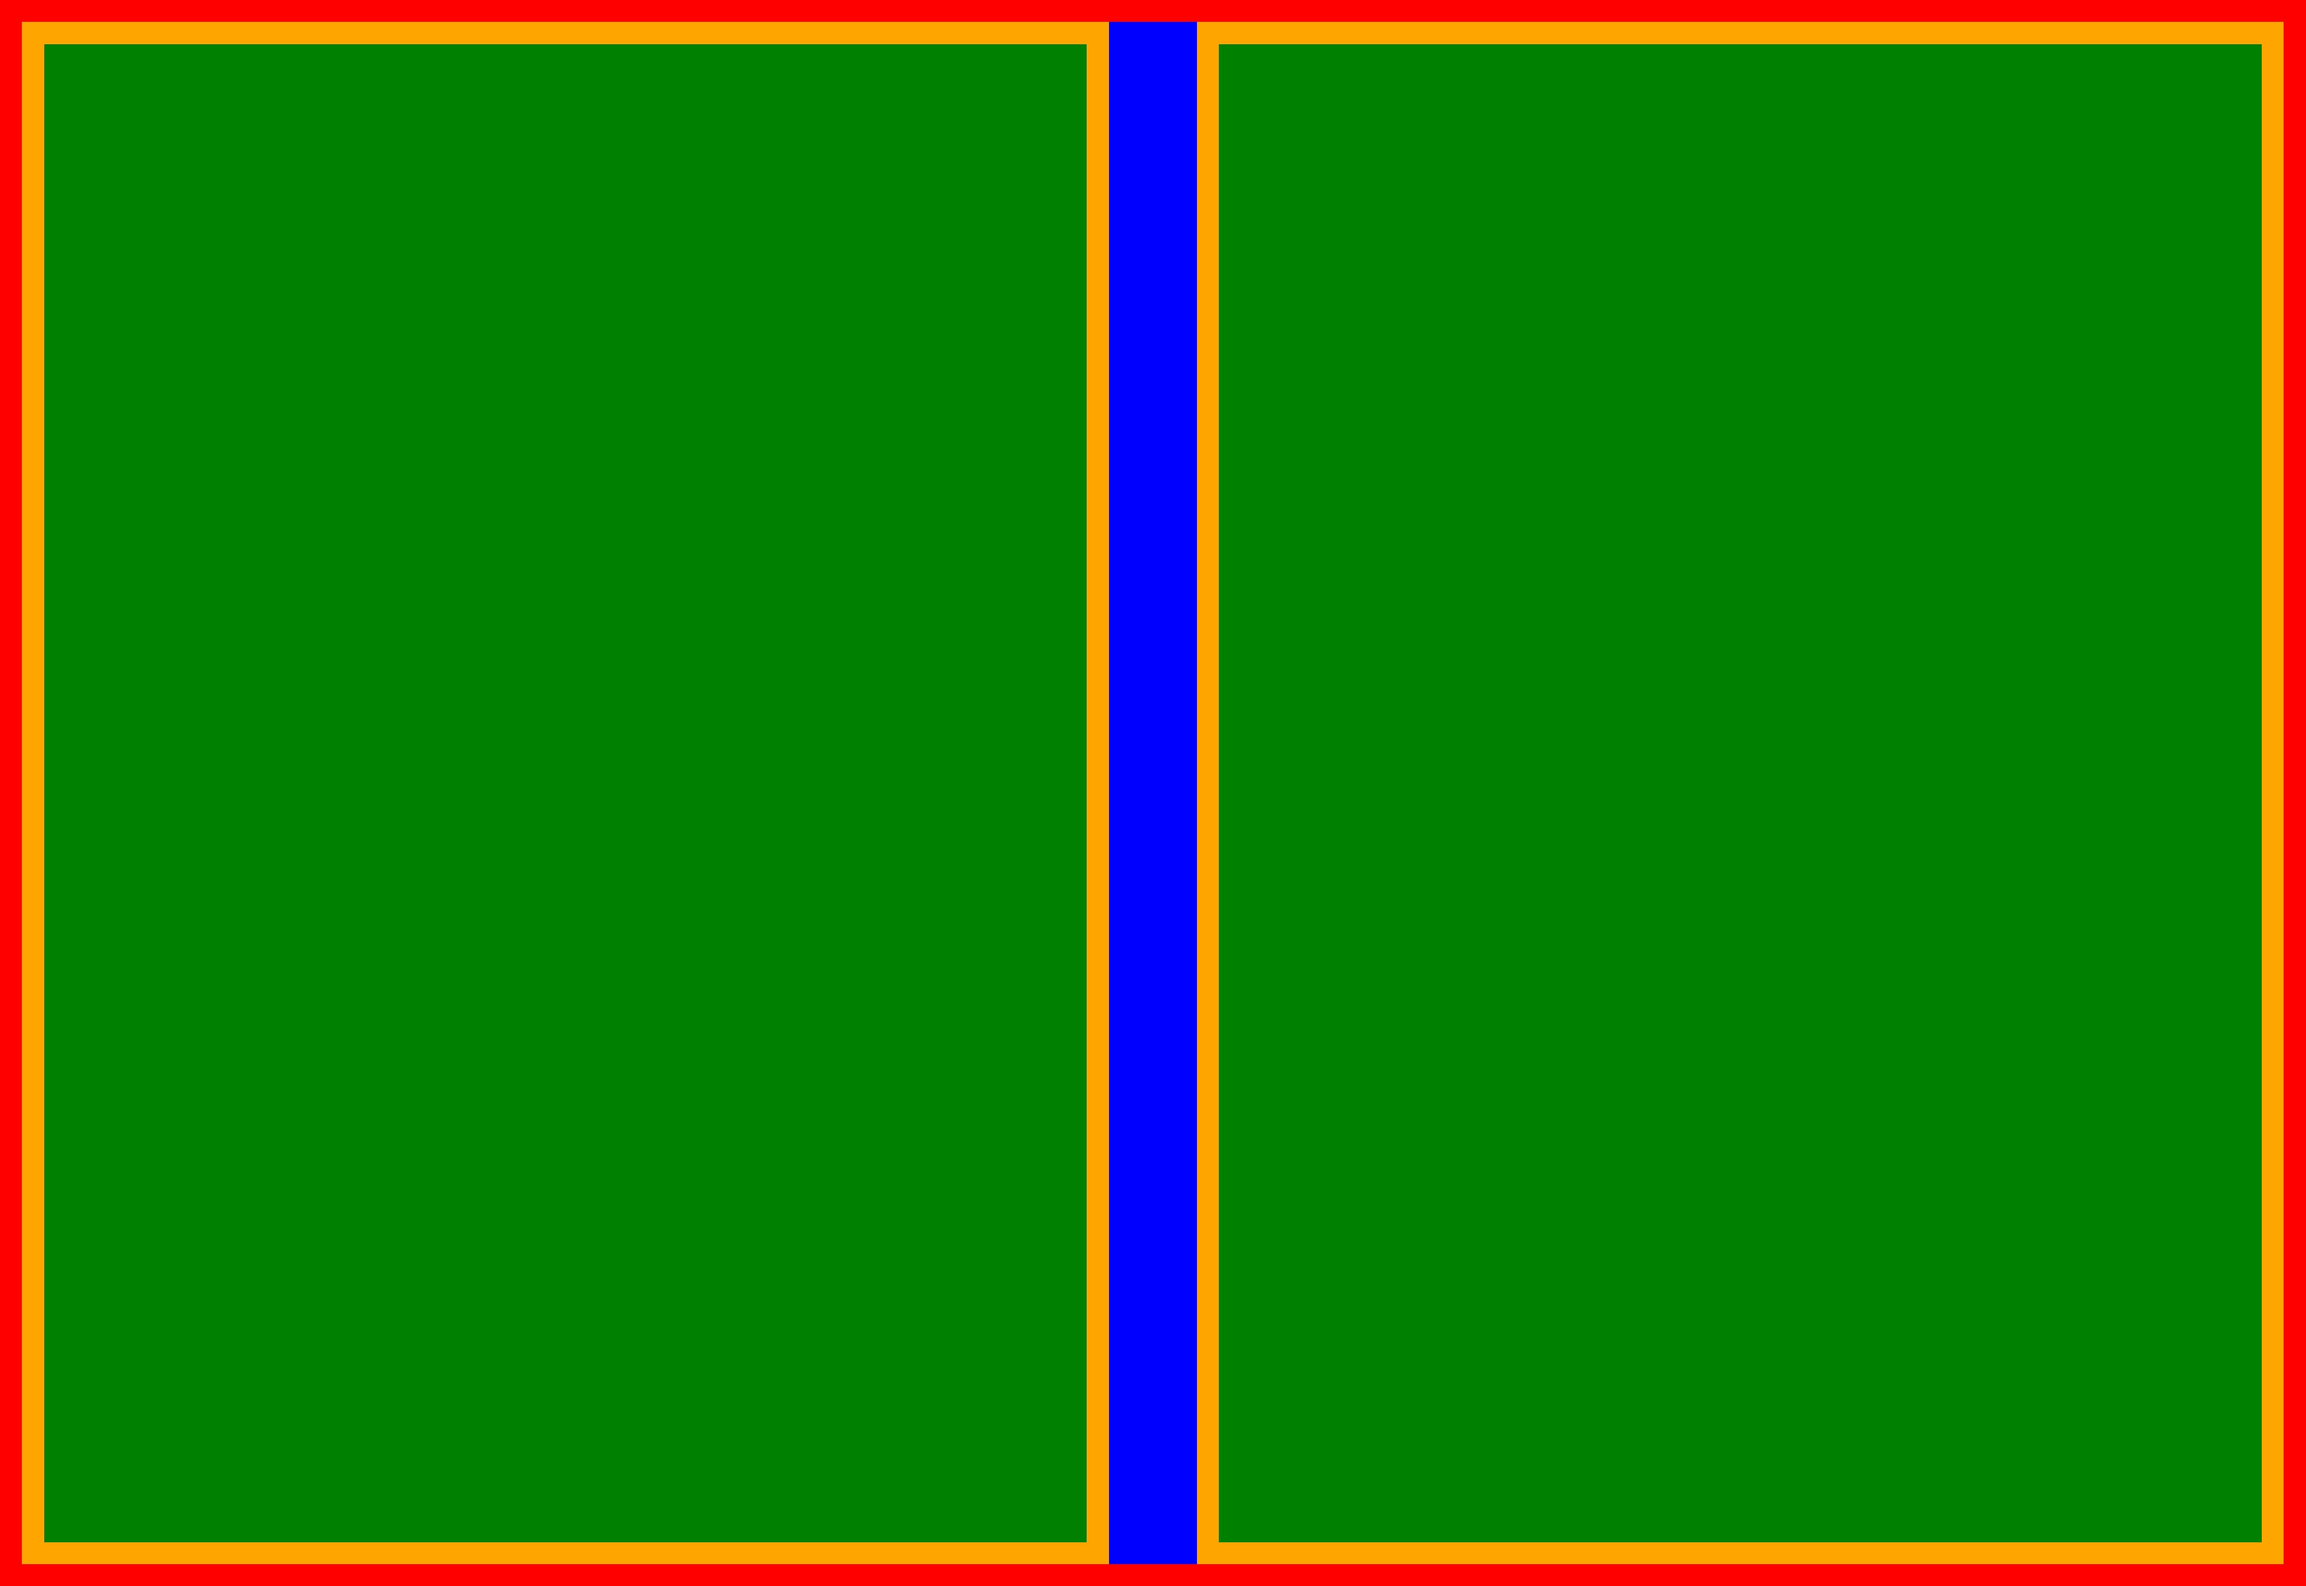
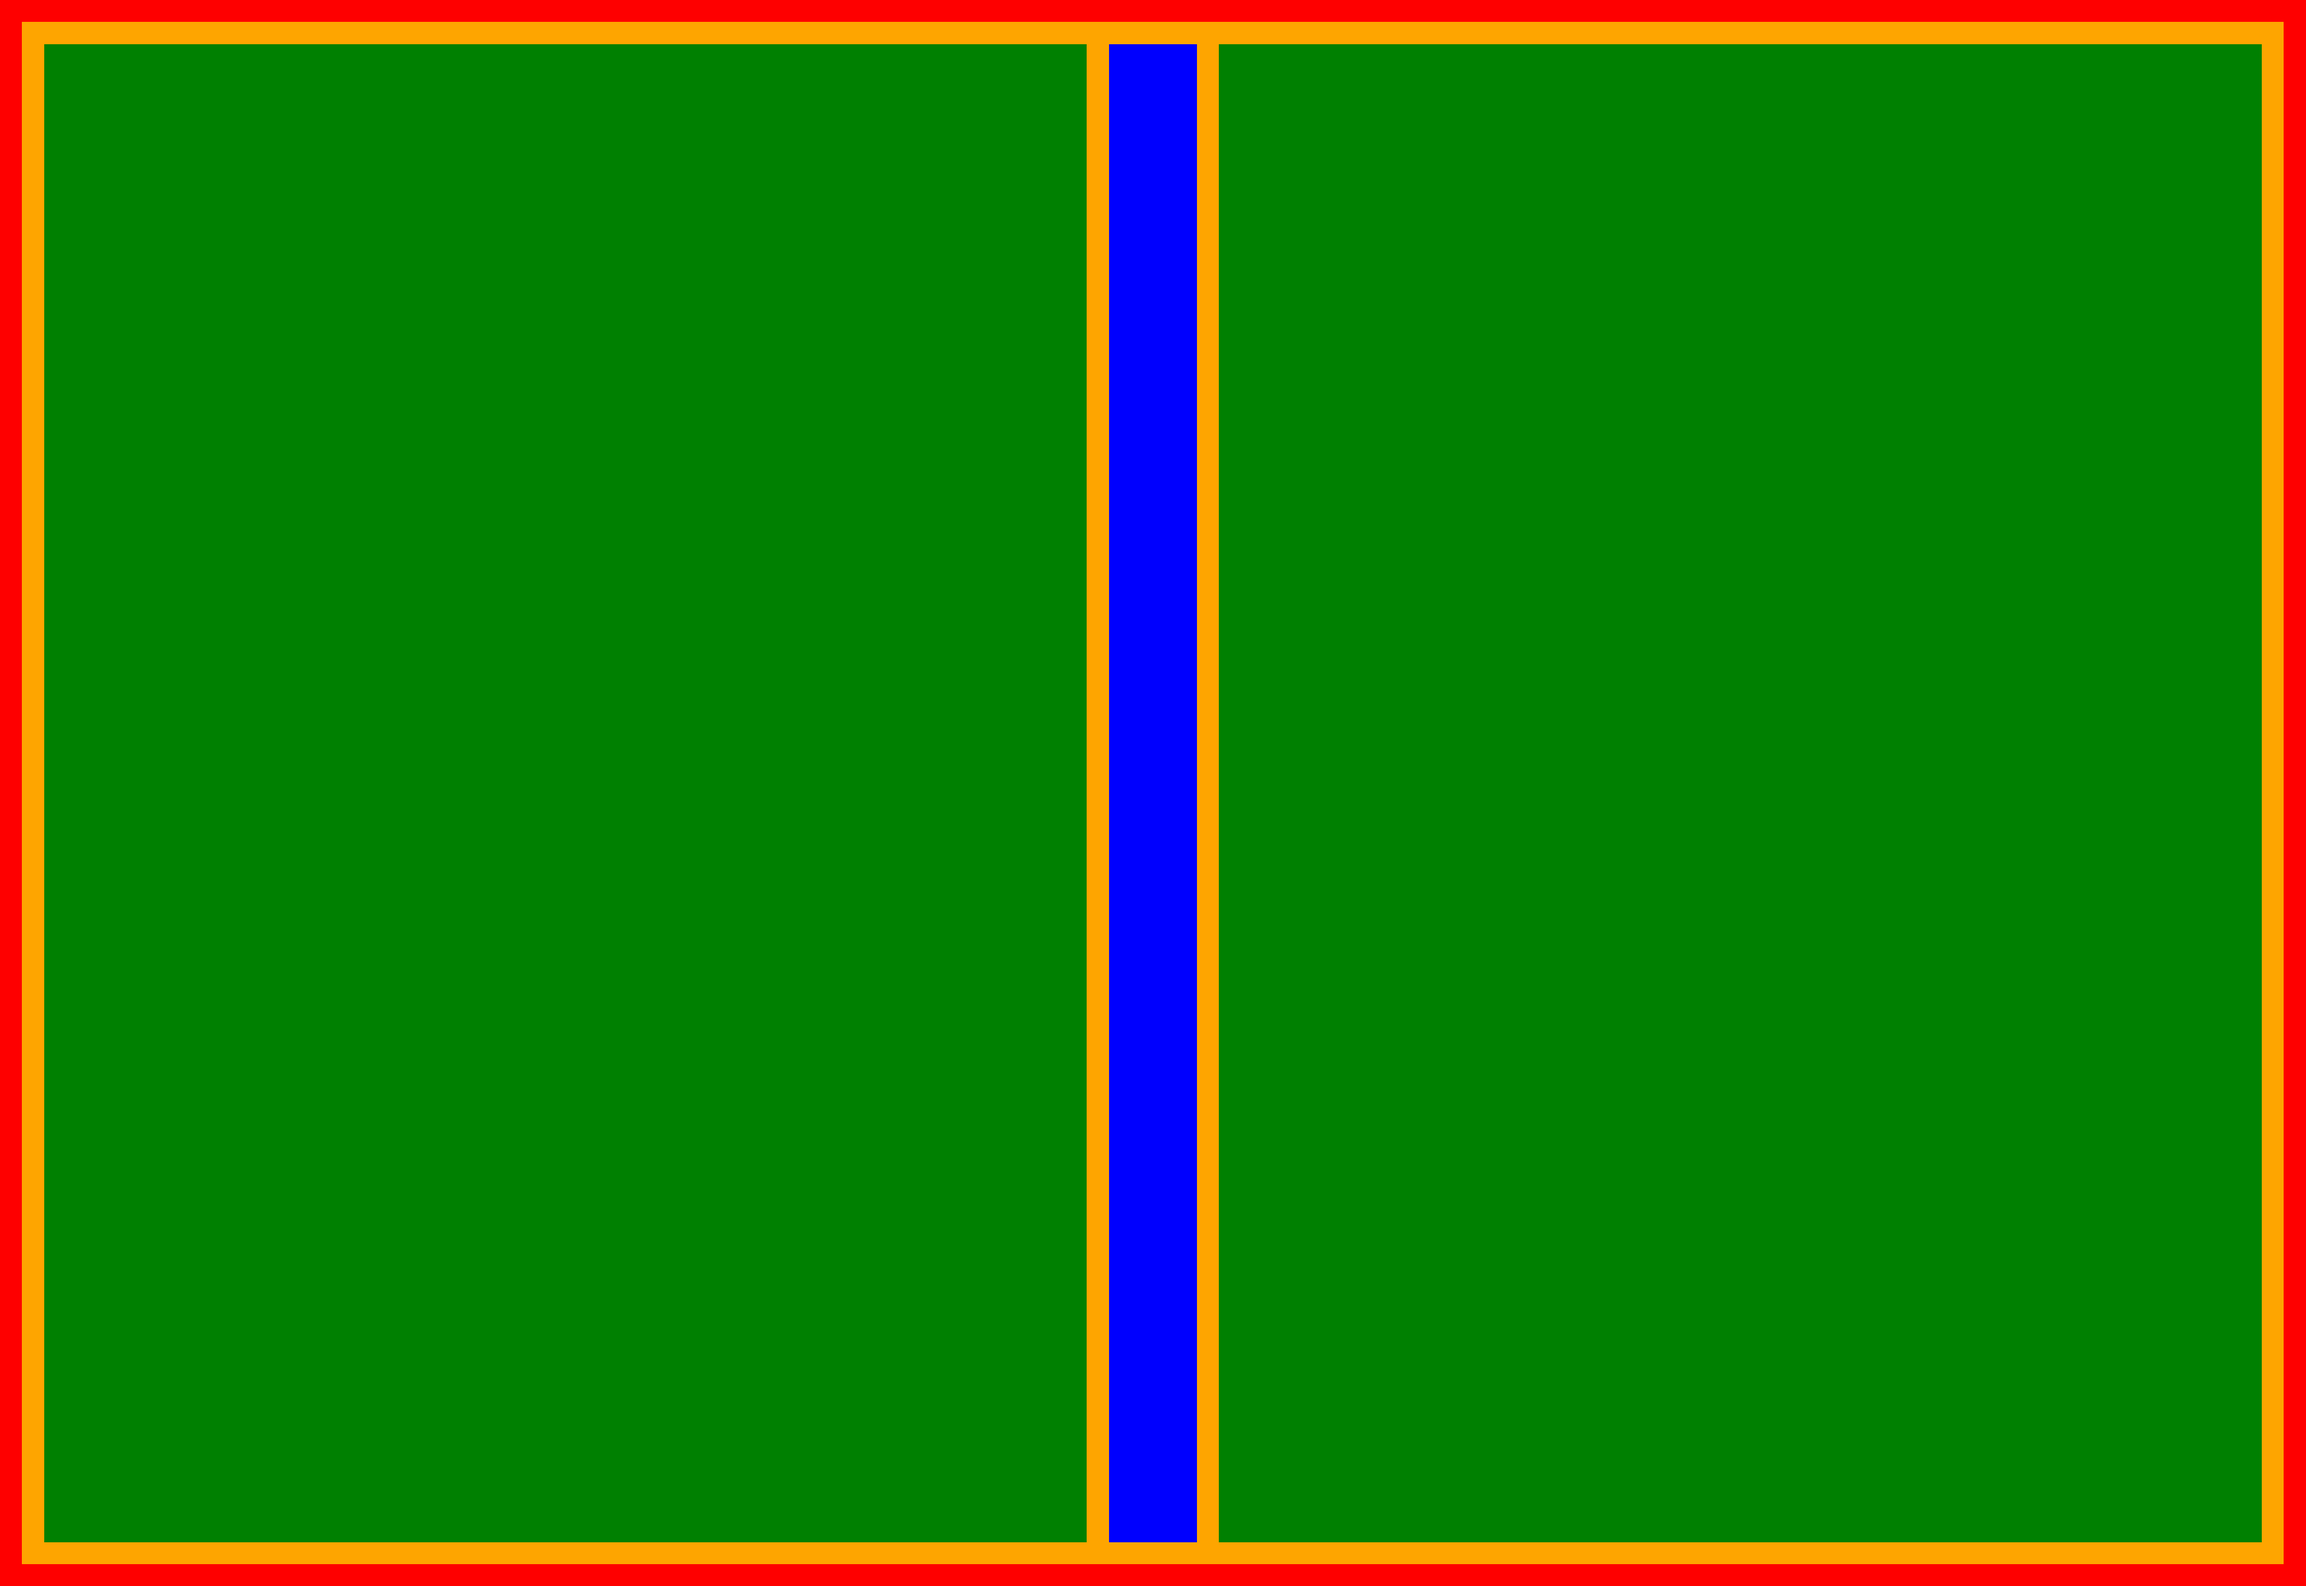
塗り足しの領域説明が誤っていたので修正。背表紙の上下に塗り足しを追加。

Changed region(s): [[0.468, 0.9688, 0.5304, 1.0], [0.468, 0.0, 0.5304, 0.0312]]

diff --git a/src/TokikosOrder/Program.cs b/src/TokikosOrder/Program.cs
@@ -107,6 +107,8 @@ internal static class Program
 
                 DrawFrame(canvas, paint, xTrim, xCover1End, yTrim, yCoverEnd,
                     xCover1FrameInnerLeft, xCover1FrameInnerRight, yFrameInnerTop, yFrameInnerBottom);
+                canvas.DrawRect(SKRect.Create(xCover1End, yTrim, xSpineEnd - xCover1End, yFrameInnerTop - yTrim), paint);
+                canvas.DrawRect(SKRect.Create(xCover1End, yFrameInnerBottom, xSpineEnd - xCover1End, yCoverEnd - yFrameInnerBottom), paint);
                 DrawFrame(canvas, paint, xSpineEnd, xCover2End, yTrim, yCoverEnd,
                     xCover2FrameInnerLeft, xCover2FrameInnerRight, yFrameInnerTop, yFrameInnerBottom);
             }
